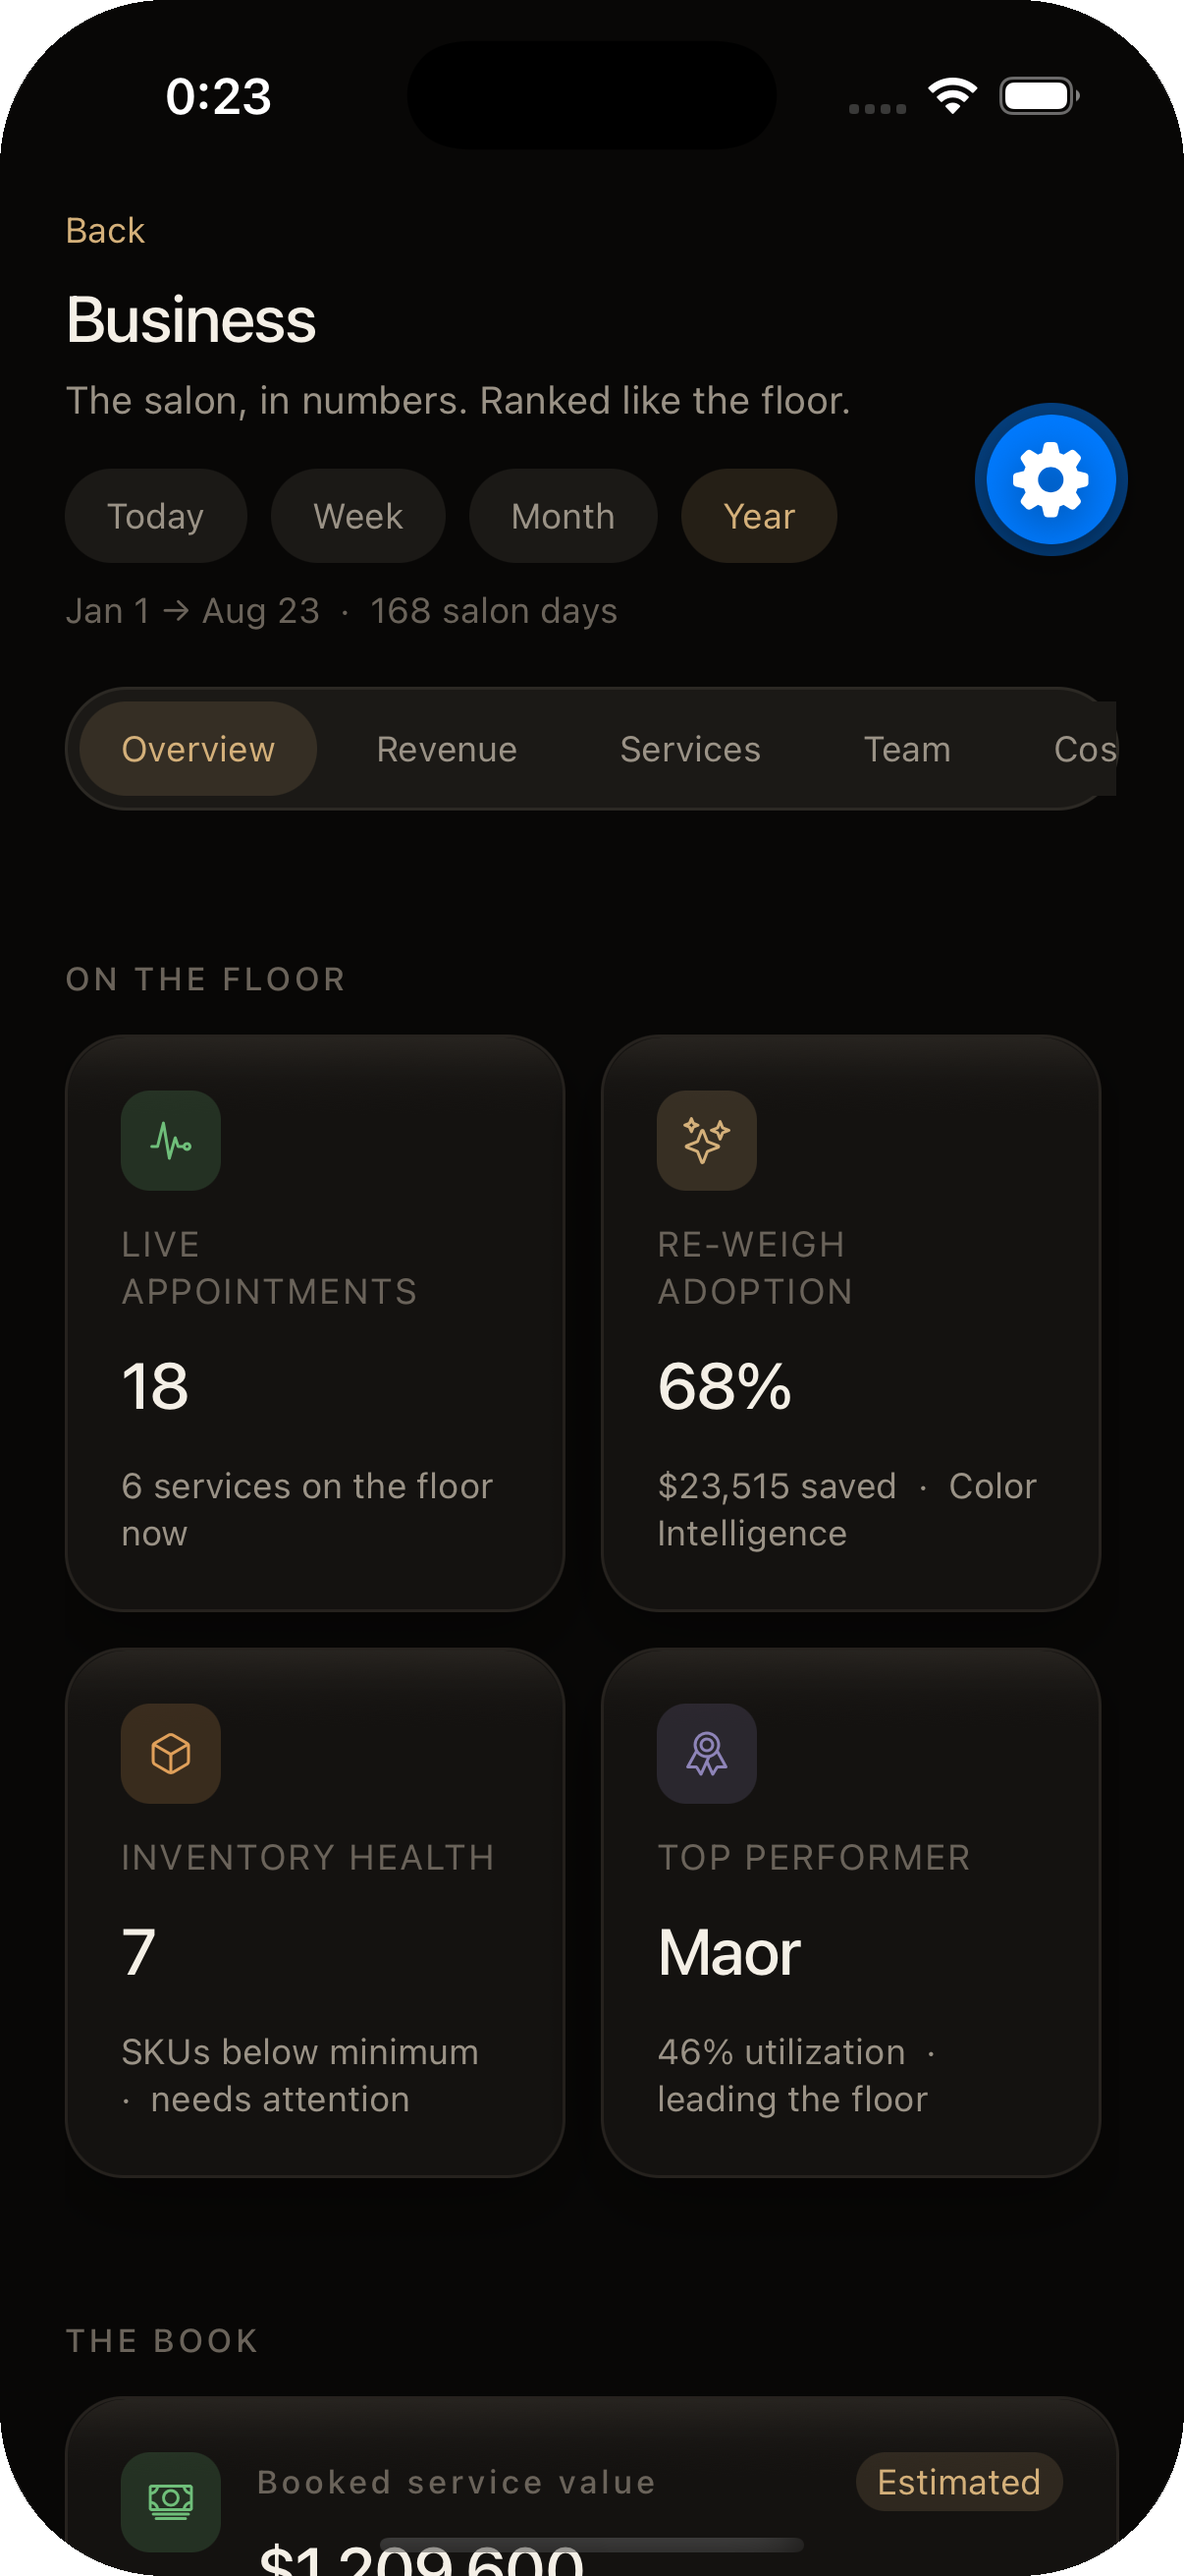
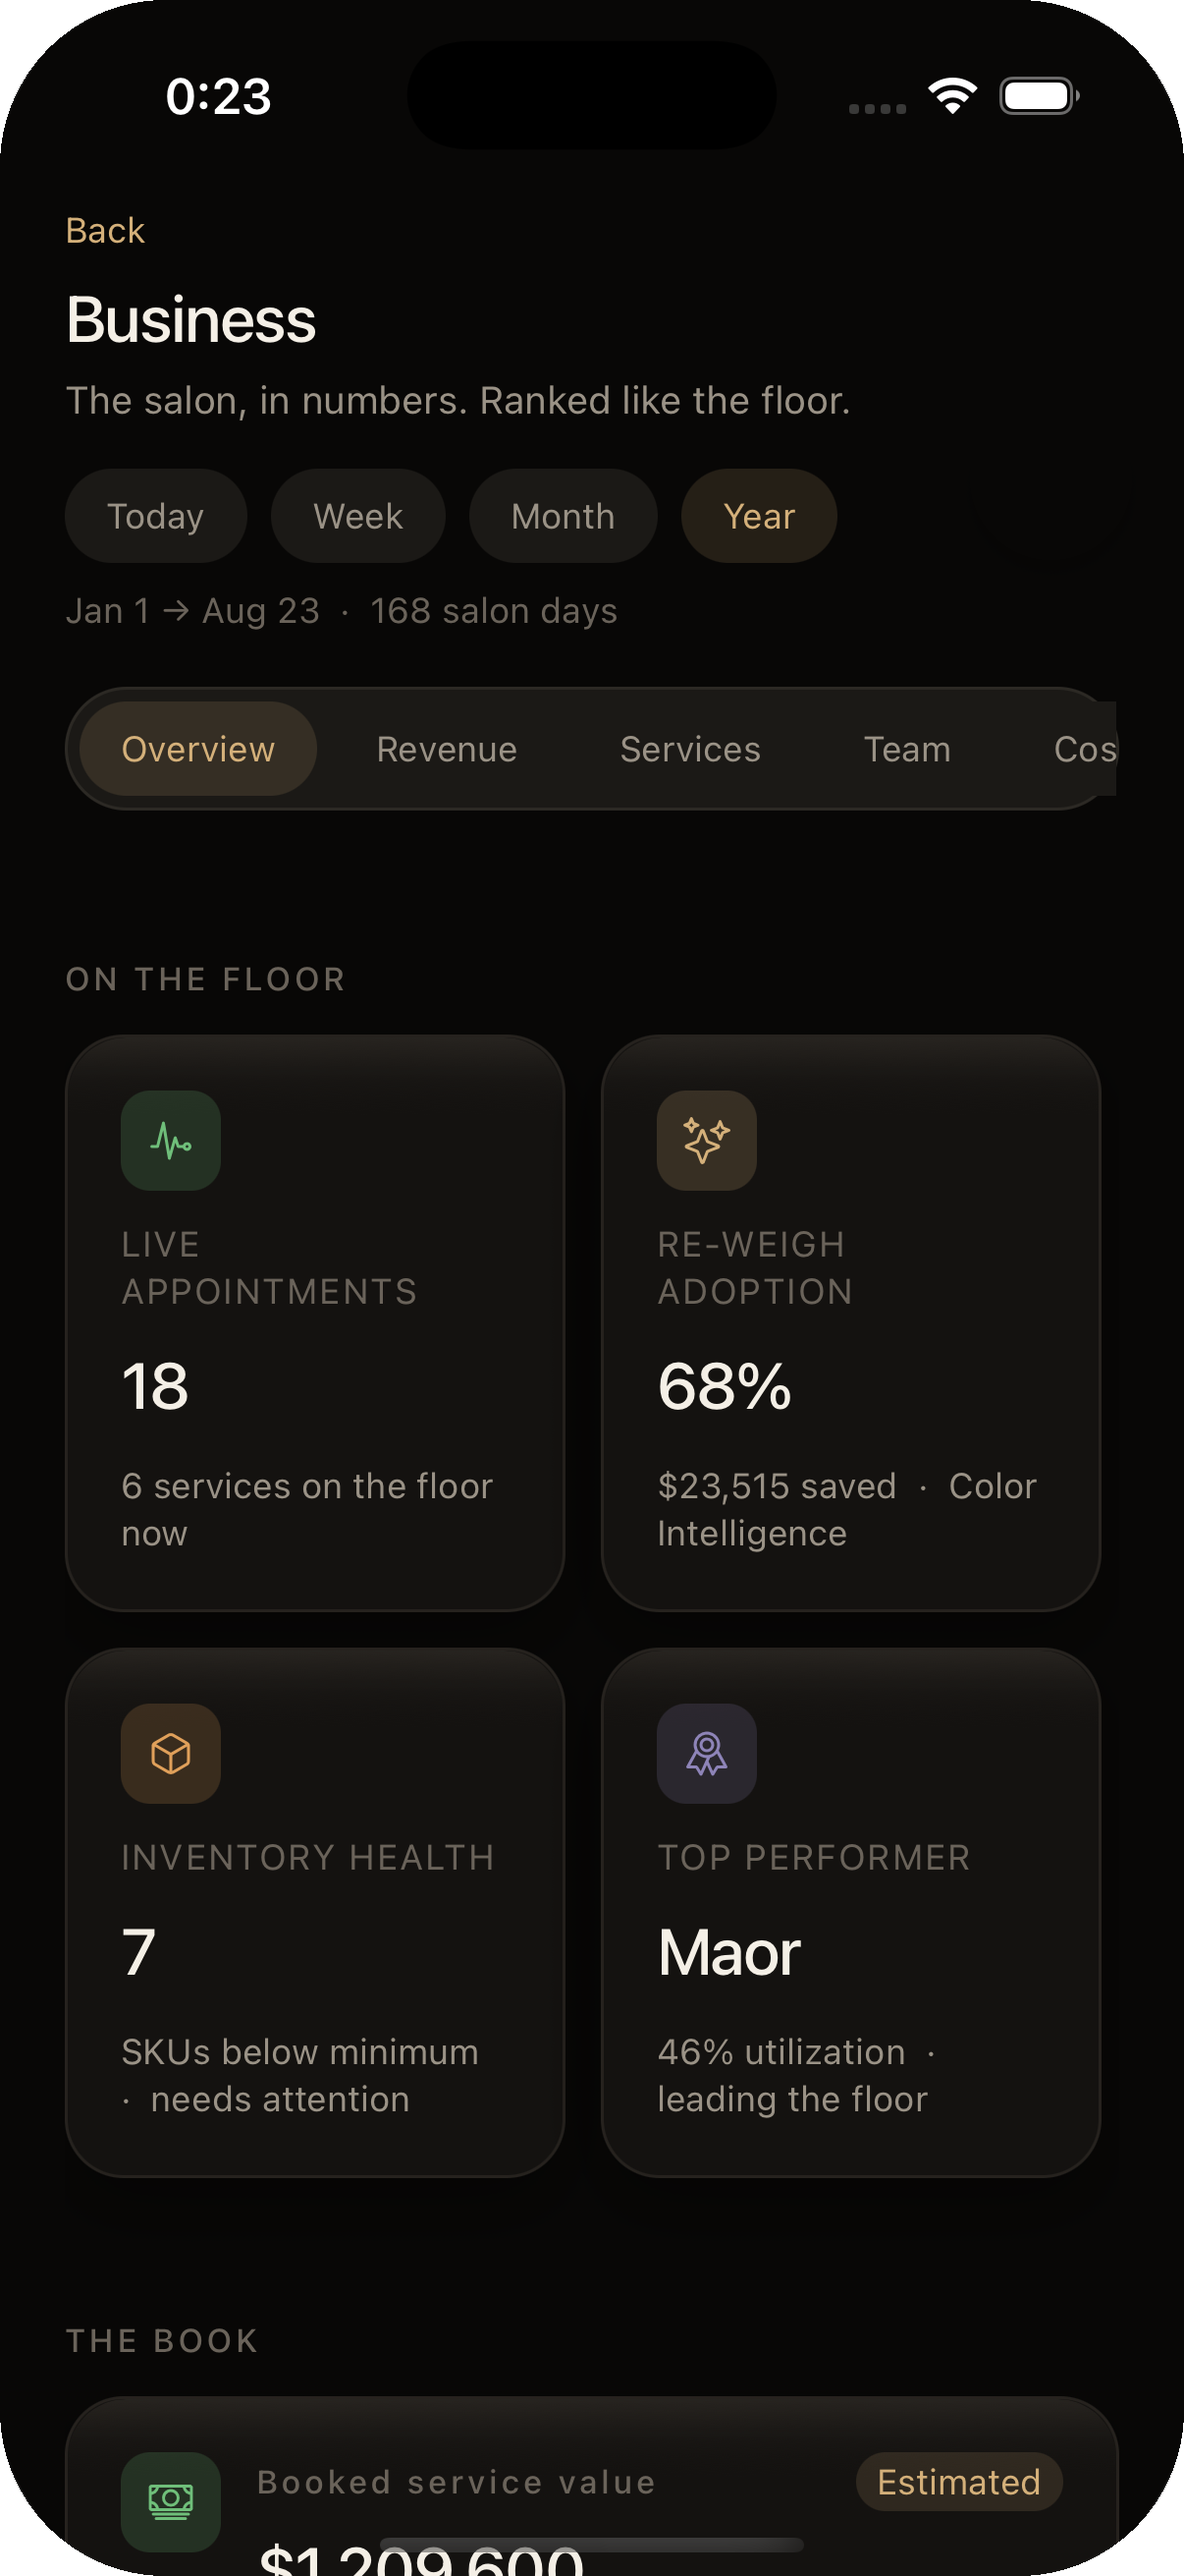
Show one owner-app screen beside the copy, cycling slowly.
The paired phones under the text felt crowded; one device next to the story keeps the section readable.

Changed region(s): [[0.8284, 0.1545, 0.9511, 0.2162]]

diff --git a/src/screens/ExternalInvestorUpdate/OwnerCommandSpread.tsx b/src/screens/ExternalInvestorUpdate/OwnerCommandSpread.tsx
@@ -22,56 +22,13 @@ type SectionProps = {
 };
 
 const SCREENS = FINAL_OWNER_APP.screens;
-
-/** Two phones at a time. The three new business screens cycle as two pairs. */
-const PAIRS = [
-  [3, 4],
-  [5, 3],
-] as const;
-
-const PHONE_WIDTH = "w-[min(42vw,16.25rem)]";
 const FRAME_RATIO = OWNER_IPHONE_RATIO;
-const HOLD_MS = 5800;
-const FADE_MS = 820;
-const HOLD_OUT_MS = 220;
+const HOLD_MS = 6800;
+const FADE_MS = 900;
+const HOLD_OUT_MS = 280;
 
-const OwnerPhone: React.FC<{
-  screen: (typeof SCREENS)[number];
-  lang: UpdateLang;
-}> = ({ screen, lang }) => (
-  <div className={`${PHONE_WIDTH} shrink-0`}>
-    <div
-      className="relative"
-      style={{
-        aspectRatio: FRAME_RATIO,
-        filter: "drop-shadow(0 16px 28px rgba(23, 17, 13, 0.24))",
-      }}
-    >
-      <OwnerIPhoneFrame>
-        <img
-          src={screen.image}
-          alt={text(screen.alt, lang)}
-          width={1206}
-          height={2622}
-          loading="lazy"
-          decoding="async"
-          draggable={false}
-          className="absolute inset-0 h-full w-full object-cover"
-        />
-      </OwnerIPhoneFrame>
-    </div>
-    <p className="mt-3 text-center text-[10px] font-semibold uppercase tracking-[0.16em] text-[#2b221b]/55">
-      {text(screen.label, lang)}
-    </p>
-  </div>
-);
-
-/**
- * Two owner phones, shown as a pair. The pair fades out and back in.
- * Print and reduced-motion stay on the first pair; dots still switch.
- */
-const OwnerScreenPairs: React.FC<{ lang: UpdateLang; animate: boolean }> = ({ lang, animate }) => {
-  const [pairIndex, setPairIndex] = useState(0);
+const OwnerScreenCycle: React.FC<{ lang: UpdateLang; animate: boolean }> = ({ lang, animate }) => {
+  const [index, setIndex] = useState(0);
   const [opaque, setOpaque] = useState(true);
   const [inView, setInView] = useState(false);
   const frameRef = useRef<HTMLDivElement>(null);
@@ -85,24 +42,24 @@ const OwnerScreenPairs: React.FC<{ lang: UpdateLang; animate: boolean }> = ({ la
       return;
     }
     const observer = new IntersectionObserver(([entry]) => setInView(entry.isIntersecting), {
-      threshold: 0.25,
+      threshold: 0.3,
     });
     observer.observe(node);
     return () => observer.disconnect();
   }, []);
 
-  const showPair = (next: number) => {
-    if (next === pairIndex || fading.current) return;
+  const showScreen = (next: number) => {
+    if (next === index || fading.current) return;
     if (fadeTimer.current) window.clearTimeout(fadeTimer.current);
     if (!animate) {
-      setPairIndex(next);
+      setIndex(next);
       setOpaque(true);
       return;
     }
     fading.current = true;
     setOpaque(false);
     fadeTimer.current = window.setTimeout(() => {
-      setPairIndex(next);
+      setIndex(next);
       setOpaque(true);
       fading.current = false;
       fadeTimer.current = null;
@@ -112,11 +69,11 @@ const OwnerScreenPairs: React.FC<{ lang: UpdateLang; animate: boolean }> = ({ la
   useEffect(() => {
     if (!animate || !inView) return;
     const timer = window.setInterval(() => {
-      showPair((pairIndex + 1) % PAIRS.length);
+      showScreen((index + 1) % SCREENS.length);
     }, HOLD_MS);
     return () => window.clearInterval(timer);
     // eslint-disable-next-line react-hooks/exhaustive-deps
-  }, [animate, inView, pairIndex]);
+  }, [animate, inView, index]);
 
   useEffect(
     () => () => {
@@ -125,56 +82,72 @@ const OwnerScreenPairs: React.FC<{ lang: UpdateLang; animate: boolean }> = ({ la
     [],
   );
 
-  const pair = PAIRS[pairIndex];
-  const left = SCREENS[pair[0]];
-  const right = SCREENS[pair[1]];
+  const active = SCREENS[index];
+  /* Enter from the copy, not from below. Hebrew reads from the right. */
+  const fromText = lang === "he" ? "12px" : "-12px";
 
   return (
-    <div>
+    <div className="w-[min(36vw,11.75rem)] shrink-0 sm:w-[min(34vw,16.5rem)] lg:w-[min(32vw,18.25rem)]">
       <div
         ref={frameRef}
         data-owner-device="true"
-        className="flex items-start justify-center gap-3 sm:gap-5"
+        className="relative"
         style={{
+          aspectRatio: FRAME_RATIO,
           opacity: opaque ? 1 : 0,
-          transform: opaque ? "translateY(0)" : "translateY(12px)",
+          transform: opaque ? "translateX(0)" : `translateX(${fromText})`,
+          filter: "drop-shadow(0 18px 30px rgba(23, 17, 13, 0.24))",
           transition: animate
             ? `opacity ${FADE_MS}ms cubic-bezier(0.4, 0, 0.2, 1), transform ${FADE_MS}ms cubic-bezier(0.4, 0, 0.2, 1)`
             : "none",
         }}
       >
-        <OwnerPhone screen={left} lang={lang} />
-        <OwnerPhone screen={right} lang={lang} />
+        <OwnerIPhoneFrame>
+          {SCREENS.map((screen, screenIndex) => (
+            <img
+              key={screen.key}
+              src={screen.image}
+              alt={screenIndex === index ? text(screen.alt, lang) : ""}
+              aria-hidden={screenIndex !== index}
+              width={1206}
+              height={2622}
+              loading={screenIndex === 0 ? "eager" : "lazy"}
+              decoding="async"
+              draggable={false}
+              className="absolute inset-0 h-full w-full object-cover"
+              style={{ opacity: screenIndex === index ? 1 : 0 }}
+            />
+          ))}
+        </OwnerIPhoneFrame>
       </div>
 
-      <div className="mx-auto mt-5 max-w-[22rem] text-center">
-        <Caption>
-          {text(left.note, lang)}
-          <span aria-hidden="true" className="mx-2 text-[#b1844d]/50">
-            ·
-          </span>
-          {text(right.note, lang)}
-        </Caption>
-        <div className="mt-3 flex items-center justify-center gap-1.5">
-          {PAIRS.map((entry, index) => (
-            <button
-              key={entry.join("-")}
-              type="button"
-              onClick={() => showPair(index)}
-              aria-label={`${text(SCREENS[entry[0]].label, lang)}, ${text(SCREENS[entry[1]].label, lang)}`}
-              aria-current={index === pairIndex}
-              className="grid h-6 w-6 place-items-center focus:outline-none focus-visible:ring-2 focus-visible:ring-[#c19a63]"
-            >
-              <span
-                aria-hidden="true"
-                className="h-1.5 w-1.5 rounded-full transition-colors"
-                style={{
-                  background: index === pairIndex ? "#8c6537" : "rgba(43,34,27,0.22)",
-                }}
-              />
-            </button>
-          ))}
+      <div className="mt-4">
+        <div className="flex items-baseline justify-between gap-3">
+          <p className="min-w-0 truncate text-[11px] font-semibold uppercase tracking-[0.16em] text-[#2b221b]/62">
+            {text(active.label, lang)}
+          </p>
+          <div className="flex shrink-0 items-center gap-0.5">
+            {SCREENS.map((screen, screenIndex) => (
+              <button
+                key={screen.key}
+                type="button"
+                onClick={() => showScreen(screenIndex)}
+                aria-label={text(screen.label, lang)}
+                aria-current={screenIndex === index}
+                className="grid h-5 w-5 place-items-center focus:outline-none focus-visible:ring-2 focus-visible:ring-[#c19a63]"
+              >
+                <span
+                  aria-hidden="true"
+                  className="h-1.5 w-1.5 rounded-full transition-colors"
+                  style={{
+                    background: screenIndex === index ? "#8c6537" : "rgba(43,34,27,0.22)",
+                  }}
+                />
+              </button>
+            ))}
+          </div>
         </div>
+        <Caption className="mt-1.5">{text(active.note, lang)}</Caption>
       </div>
     </div>
   );
@@ -188,28 +161,28 @@ export const OwnerCommandSpread: React.FC<SectionProps> = ({ lang, reducedMotion
     <Chapter id="owner-app" label={text(o.title, lang)} tone="warm" rhythm="pause">
       <Spread>
         <Reveal reducedMotion={reducedMotion}>
-          <div className="mx-auto max-w-[34rem] text-center lg:mx-0 lg:max-w-[36rem] lg:text-start">
-            <Kicker>{text(o.kicker, lang)}</Kicker>
-            <Display lang={lang} size="feature" className="mx-auto mt-6 max-w-[15ch] lg:mx-0">
-              {text(o.title, lang)}
-            </Display>
-            <Body className="mx-auto mt-7 max-w-[27rem] lg:mx-0">{text(o.body, lang)}</Body>
+          <div className="grid grid-cols-[minmax(0,1fr)_auto] items-center gap-x-5 gap-y-0 sm:gap-x-10 lg:gap-x-14">
+            <div className="min-w-0">
+              <Kicker>{text(o.kicker, lang)}</Kicker>
+              <Display lang={lang} size="feature" className="mt-5 max-w-[14ch] sm:mt-6 sm:max-w-[15ch]">
+                {text(o.title, lang)}
+              </Display>
+              <Body className="mt-5 max-w-[27rem] sm:mt-7">{text(o.body, lang)}</Body>
 
-            <PullQuote lang={lang} size="chapter" className="mt-10 max-w-[30rem]">
-              {text(o.pull, lang)}
-            </PullQuote>
+              <PullQuote lang={lang} size="chapter" className="mt-7 max-w-[28rem] sm:mt-10">
+                {text(o.pull, lang)}
+              </PullQuote>
 
-            <TermList items={FINAL_MOBILE.roles} lang={lang} className="mt-8 justify-center lg:justify-start" />
-            <Body className="mt-2.5">{text(FINAL_MOBILE.line, lang)}</Body>
+              <TermList items={FINAL_MOBILE.roles} lang={lang} className="mt-6 sm:mt-8" />
+              <Body className="mt-2.5">{text(FINAL_MOBILE.line, lang)}</Body>
+
+              <Rule className="mt-6 sm:mt-8" />
+              <Caption className="mt-4 max-w-[24rem] sm:mt-5">{text(o.status, lang)}</Caption>
+              <Caption className="mt-2 max-w-[26rem]">{text(o.screensCaption, lang)}</Caption>
+            </div>
+
+            <OwnerScreenCycle lang={lang} animate={!reducedMotion && !pdfExport} />
           </div>
-
-          <div className="mt-10 lg:mt-12">
-            <OwnerScreenPairs lang={lang} animate={!reducedMotion && !pdfExport} />
-          </div>
-
-          <Rule className="mt-8" />
-          <Caption className="mt-5 max-w-[26rem]">{text(o.status, lang)}</Caption>
-          <Caption className="mt-2 max-w-[28rem]">{text(o.screensCaption, lang)}</Caption>
         </Reveal>
       </Spread>
     </Chapter>

diff --git a/src/screens/ExternalInvestorUpdate/finalCopy.ts b/src/screens/ExternalInvestorUpdate/finalCopy.ts
@@ -262,7 +262,7 @@ export const FINAL_OWNER_APP = {
     he: "Owner Home, כיוון עיצובי. מסך קונספט באנגלית. פעילות הסלון והנתונים הם להמחשה.",
   },
   figureLabel: { en: "Owner Home", he: "Owner Home" },
-  /** Owner surfaces, shown two at a time on the live page. */
+  /** Owner surfaces, shown one at a time beside the copy. */
   screensCaption: {
     en: "Owner app, design direction. English-language concept screens. Salon activity and figures are illustrative.",
     he: "אפליקציית הבעלים, כיוון עיצובי. מסכי קונספט באנגלית. פעילות הסלון והנתונים הם להמחשה.",
